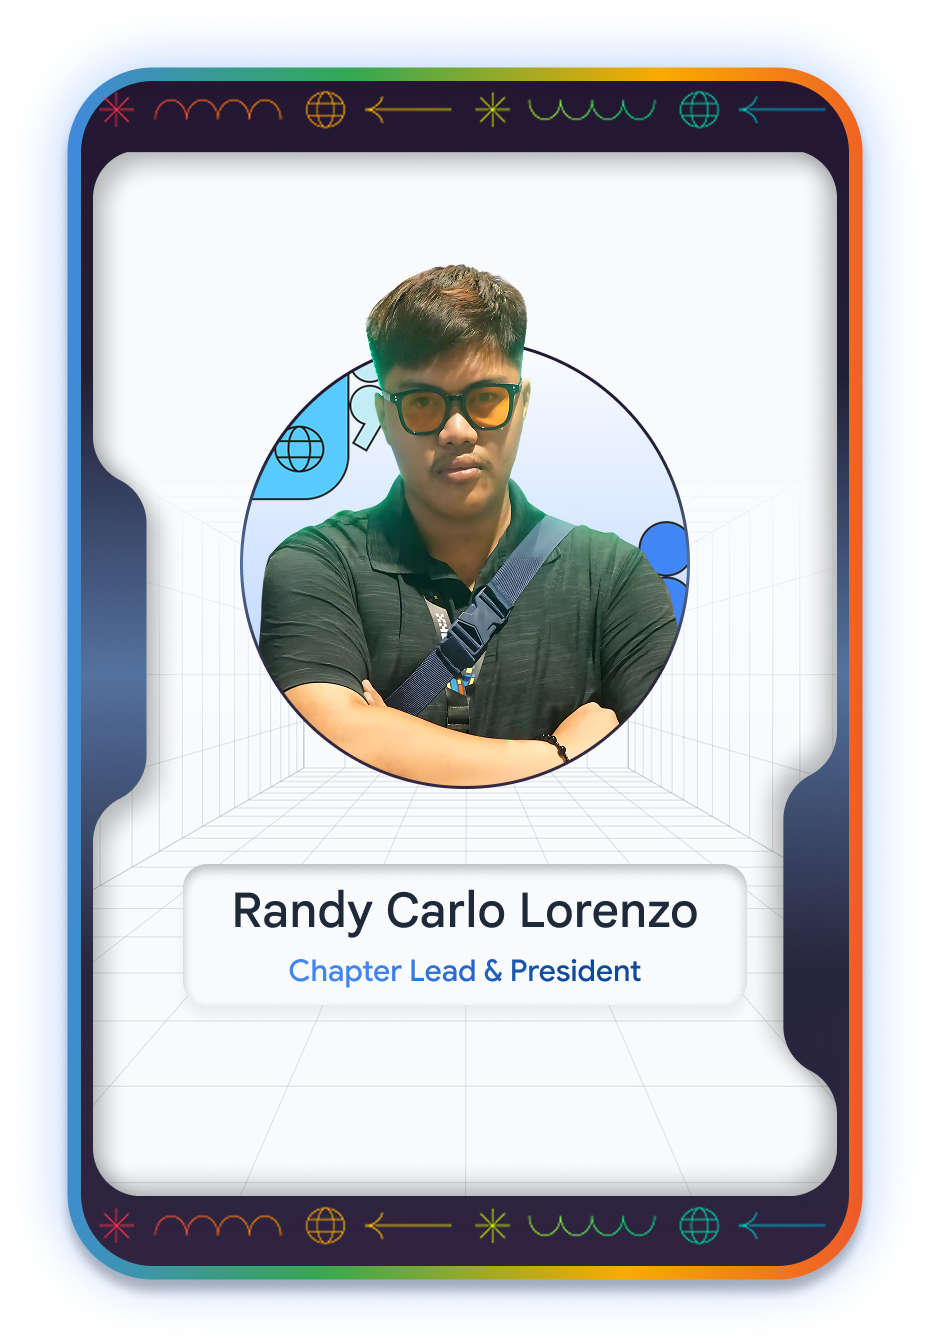
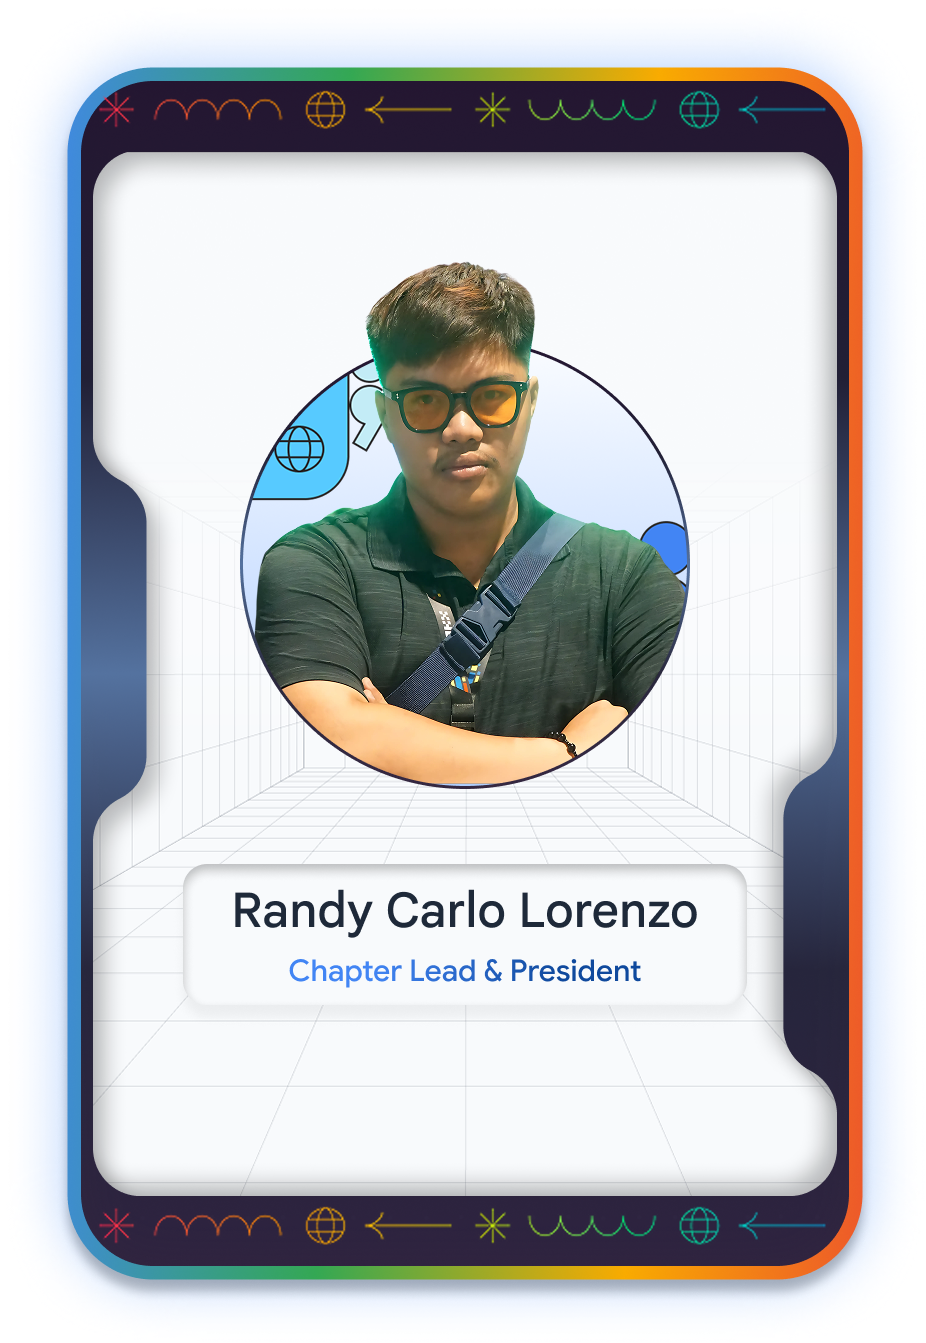
links open a new tab. partner with us button redirect to forms. kuya randy photo changed

Changed region(s): [[0.2721, 0.1832, 0.7559, 0.58]]

diff --git a/src/components/Footer.tsx b/src/components/Footer.tsx
@@ -41,7 +41,10 @@ const Footer = () => {
           text-center lg:text-left
         "
       >
-        <div className="flex items-center justify-center lg:justify-start w-full lg:w-auto cursor-pointer" onClick={()=>router.push("/")}>
+        <div
+          className="flex items-center justify-center lg:justify-start w-full lg:w-auto cursor-pointer"
+          onClick={() => router.push("/")}
+        >
           <img
             src={
               isDarkMode
@@ -65,19 +68,29 @@ const Footer = () => {
             w-full lg:w-auto mt-4 lg:mt-0
           "
         >
-          {
-            LINKS.map((link, index) => (
-              
-          <Link href={link.href} key={index} className="hover:text-[var(--color-gdg-blue-light)] transition-colors duration-200">{link.name}</Link>
-            ))
-          } 
+          {LINKS.map((link, index) => (
+            <Link
+              href={link.href}
+              key={index}
+              className="hover:text-[var(--color-gdg-blue-light)] transition-colors duration-200"
+            >
+              {link.name}
+            </Link>
+          ))}
         </div>
 
         {/* partner button */}
         <div className="w-full lg:w-auto flex justify-center lg:justify-end mt-3 lg:mt-0">
-          <Button 
-          variant="green"
+          <Button
+            variant="green"
             className="!text-white text-xs sm:text-sm px-5 py-2 sm:px-6 sm:py-2.5 hover:opacity-90 transition"
+            onClick={() =>
+              window.open(
+                "https://docs.google.com/forms/d/e/1FAIpQLSe9KuQFnKNJ2XvN8lWX0YcTBL2e9HAmtL-e9cOtanV09ukG9g/viewform",
+                "_blank",
+                "noopener,noreferrer"
+              )
+            }
           >
             Partner with Us
           </Button>
@@ -113,14 +126,24 @@ const Footer = () => {
             order-2 sm:order-2
           "
         >
-          <a href="https://www.facebook.com/gdg.pupmnl" aria-label="Facebook" target="_blank" rel="noopener noreferrer">
+          <a
+            href="https://www.facebook.com/gdg.pupmnl"
+            aria-label="Facebook"
+            target="_blank"
+            rel="noopener noreferrer"
+          >
             <img
               src="/sites/footer/f-facebook.svg"
               alt="Facebook"
               className="h-5 w-5 object-contain hover:opacity-80 transition"
             />
           </a>
-          <a href="https://www.instagram.com/gdg.pupmnl/" target="_blank" rel="noopener noreferrer" aria-label="Instagram">
+          <a
+            href="https://www.instagram.com/gdg.pupmnl/"
+            target="_blank"
+            rel="noopener noreferrer"
+            aria-label="Instagram"
+          >
             <img
               src="/sites/footer/f-instagram.svg"
               alt="Instagram"
@@ -154,7 +177,6 @@ const Footer = () => {
 
 export default Footer;
 
-
 const LINKS = [
   {
     name: "About",
@@ -171,9 +193,8 @@ const LINKS = [
   {
     name: "Coming Soon",
     href: "/comingsoon",
-  }
-]
-
+  },
+];
 
 const SOCIALS: {
   image: string;
@@ -190,5 +211,5 @@ const SOCIALS: {
   {
     image: "/sites/contacts/ig.svg",
     link: "https://www.instagram.com/gdg.pupmnl",
-  }, 
+  },
 ];

diff --git a/src/app/about/page.tsx b/src/app/about/page.tsx
@@ -167,8 +167,13 @@ const AboutPage = () => {
               {/* team members */}
               {index === 2 && (
                 <div className="  w-full  grid grid-cols-1 sm:grid-cols-2 md:grid-cols-2 lg:flex lg:flex-row lg:flex-wrap lg:justify-center lg:grid-cols-none  gap-0">
-                  {team.members.map((member, index) => (<div key={`helloworld${index}`} className=" lg:min-w-sm items-center flex justify-center">
-                    <MemberCard key={index} member={member} /></div>
+                  {team.members.map((member, index) => (
+                    <div
+                      key={`helloworld${index}`}
+                      className=" lg:min-w-sm items-center flex justify-center"
+                    >
+                      <MemberCard key={index} member={member} />
+                    </div>
                   ))}
                 </div>
               )}
@@ -223,6 +228,7 @@ const MemberCard = ({ member }: { member: MemberType }) => {
           <Link
             className=" w-[6%] aspect-square hover:scale-105 hover:drop-shadow-sm hover:drop-shadow-gdg-orange/20 transition-all duration-200 "
             href={member.fb}
+            target="_blank"
           >
             <img
               src="/contributors/fb.svg"
@@ -235,6 +241,7 @@ const MemberCard = ({ member }: { member: MemberType }) => {
           <Link
             className=" w-[6%] aspect-square hover:scale-105 hover:drop-shadow-sm hover:drop-shadow-gdg-orange/20 transition-all duration-200 "
             href={member.ig}
+            target="_blank"
           >
             <img
               src="/contributors/ig.svg"
@@ -247,6 +254,7 @@ const MemberCard = ({ member }: { member: MemberType }) => {
           <Link
             className=" w-[6%] aspect-square hover:scale-105 hover:drop-shadow-sm hover:drop-shadow-gdg-orange/20 transition-all duration-200 "
             href={member.linkedin}
+            target="_blank"
           >
             <img
               src="/contributors/linkedin.svg"
